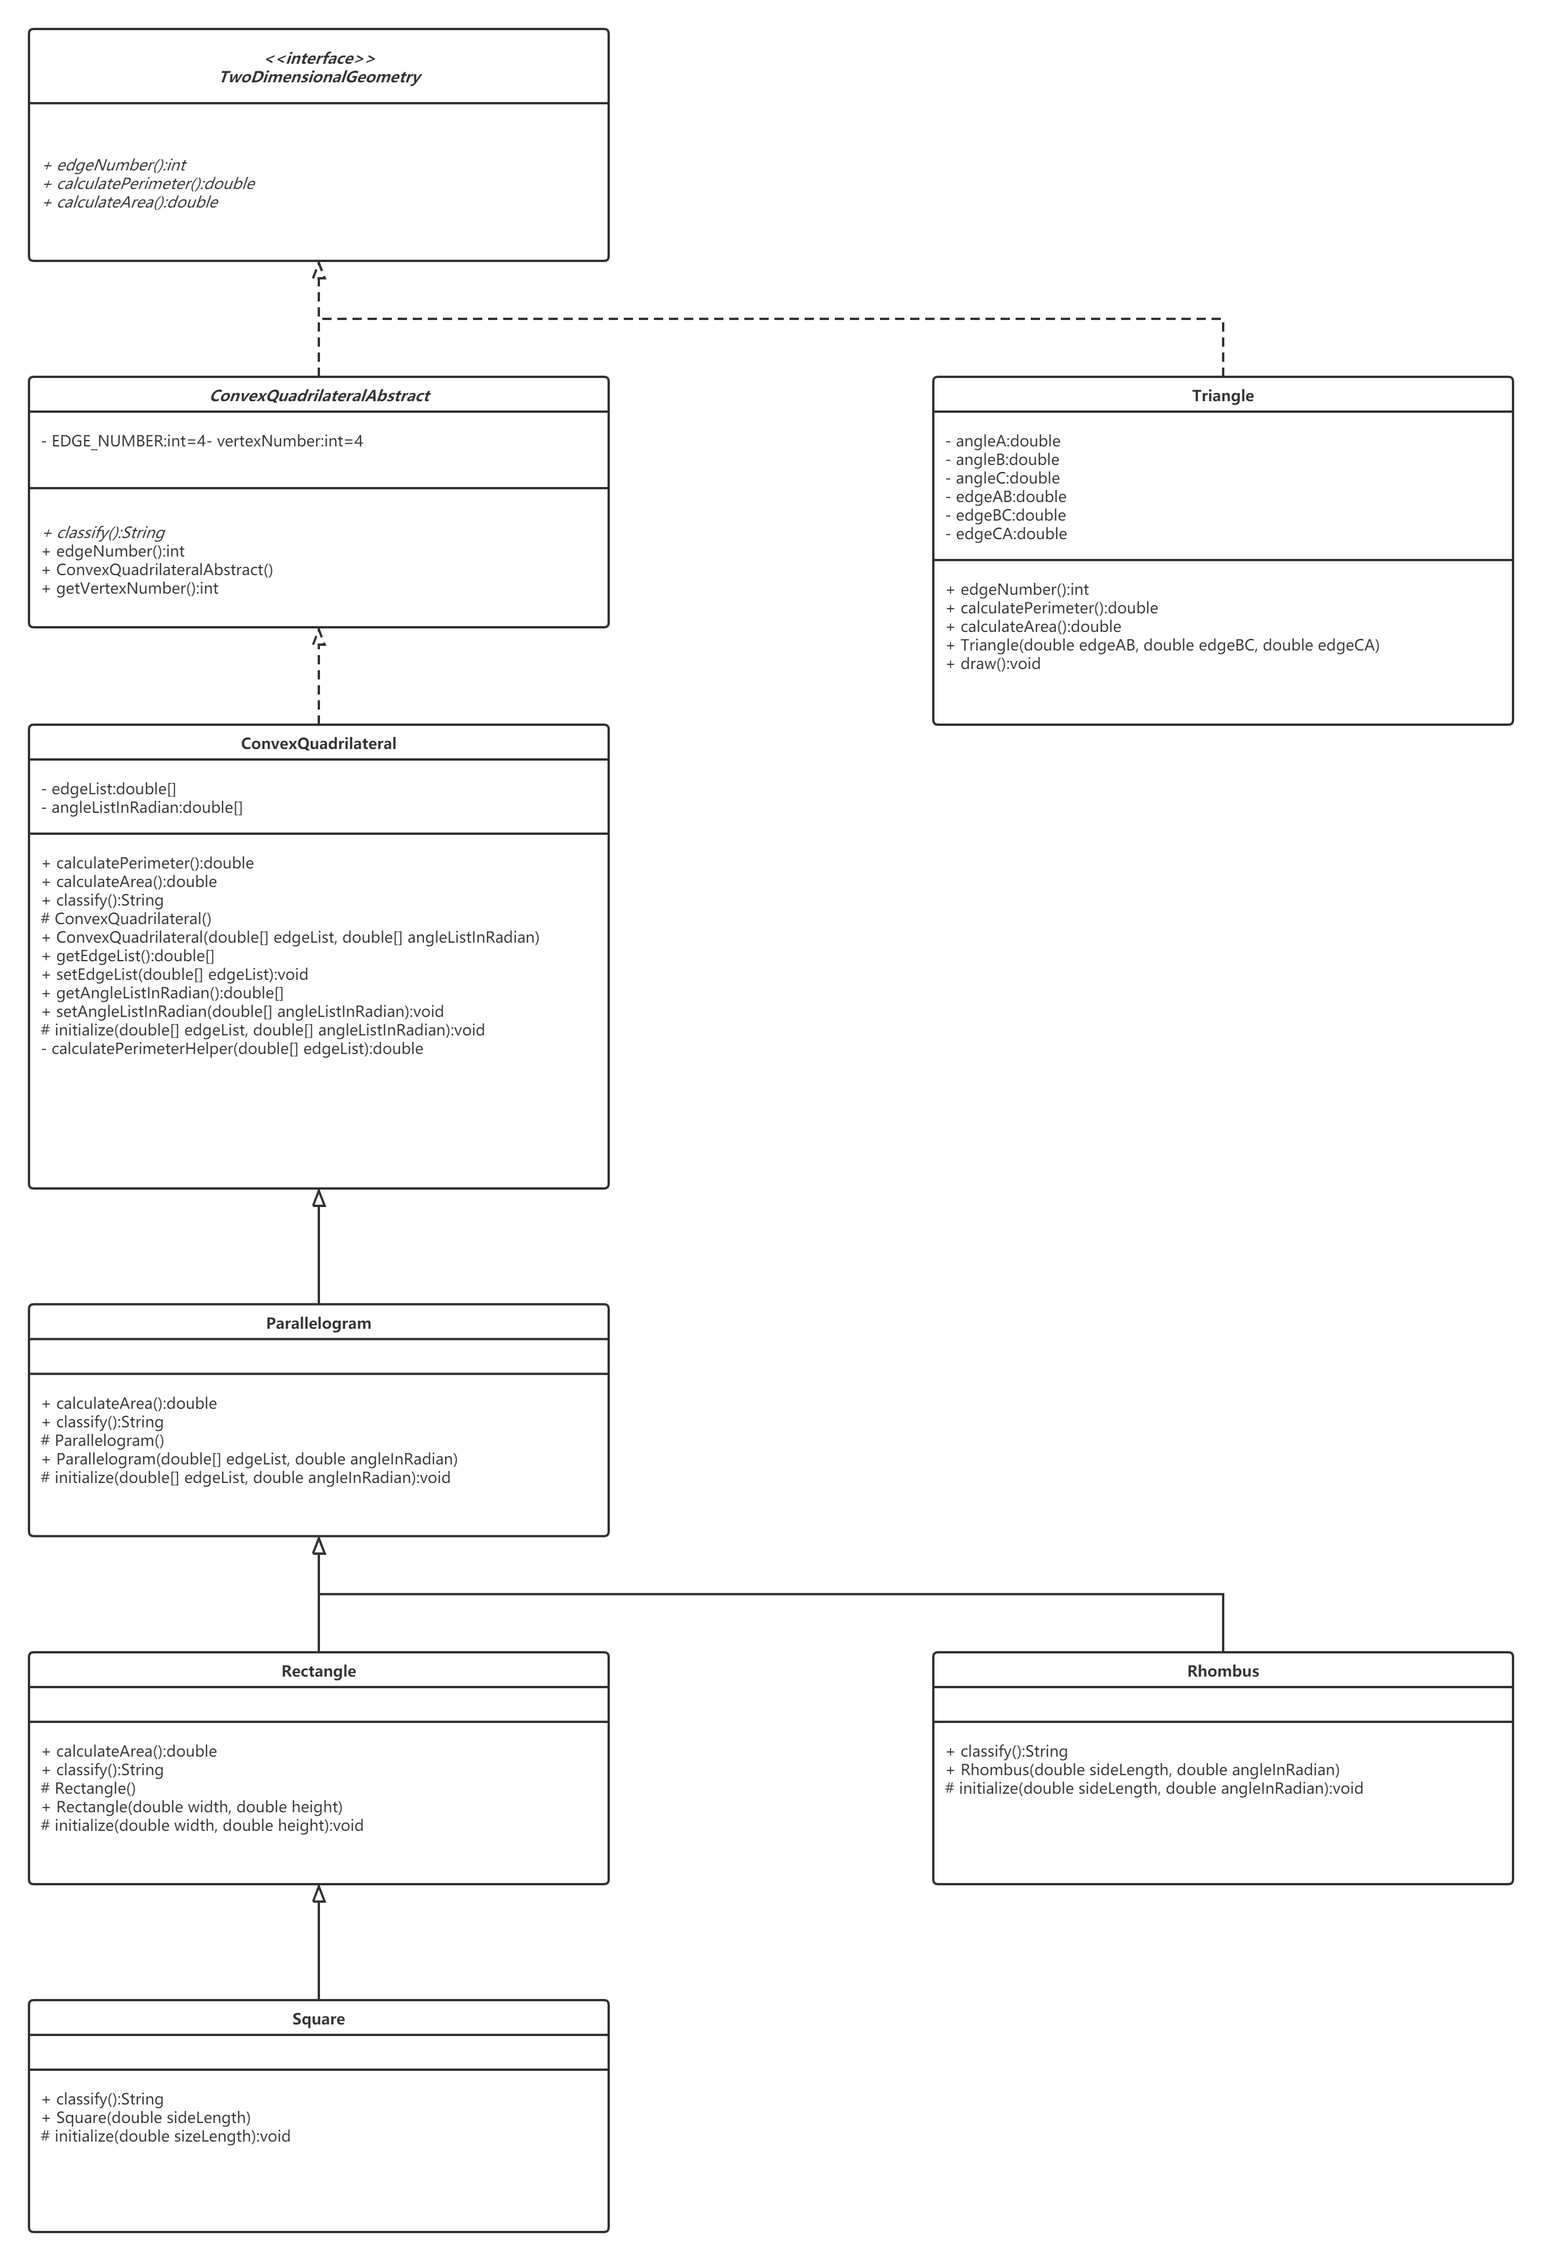
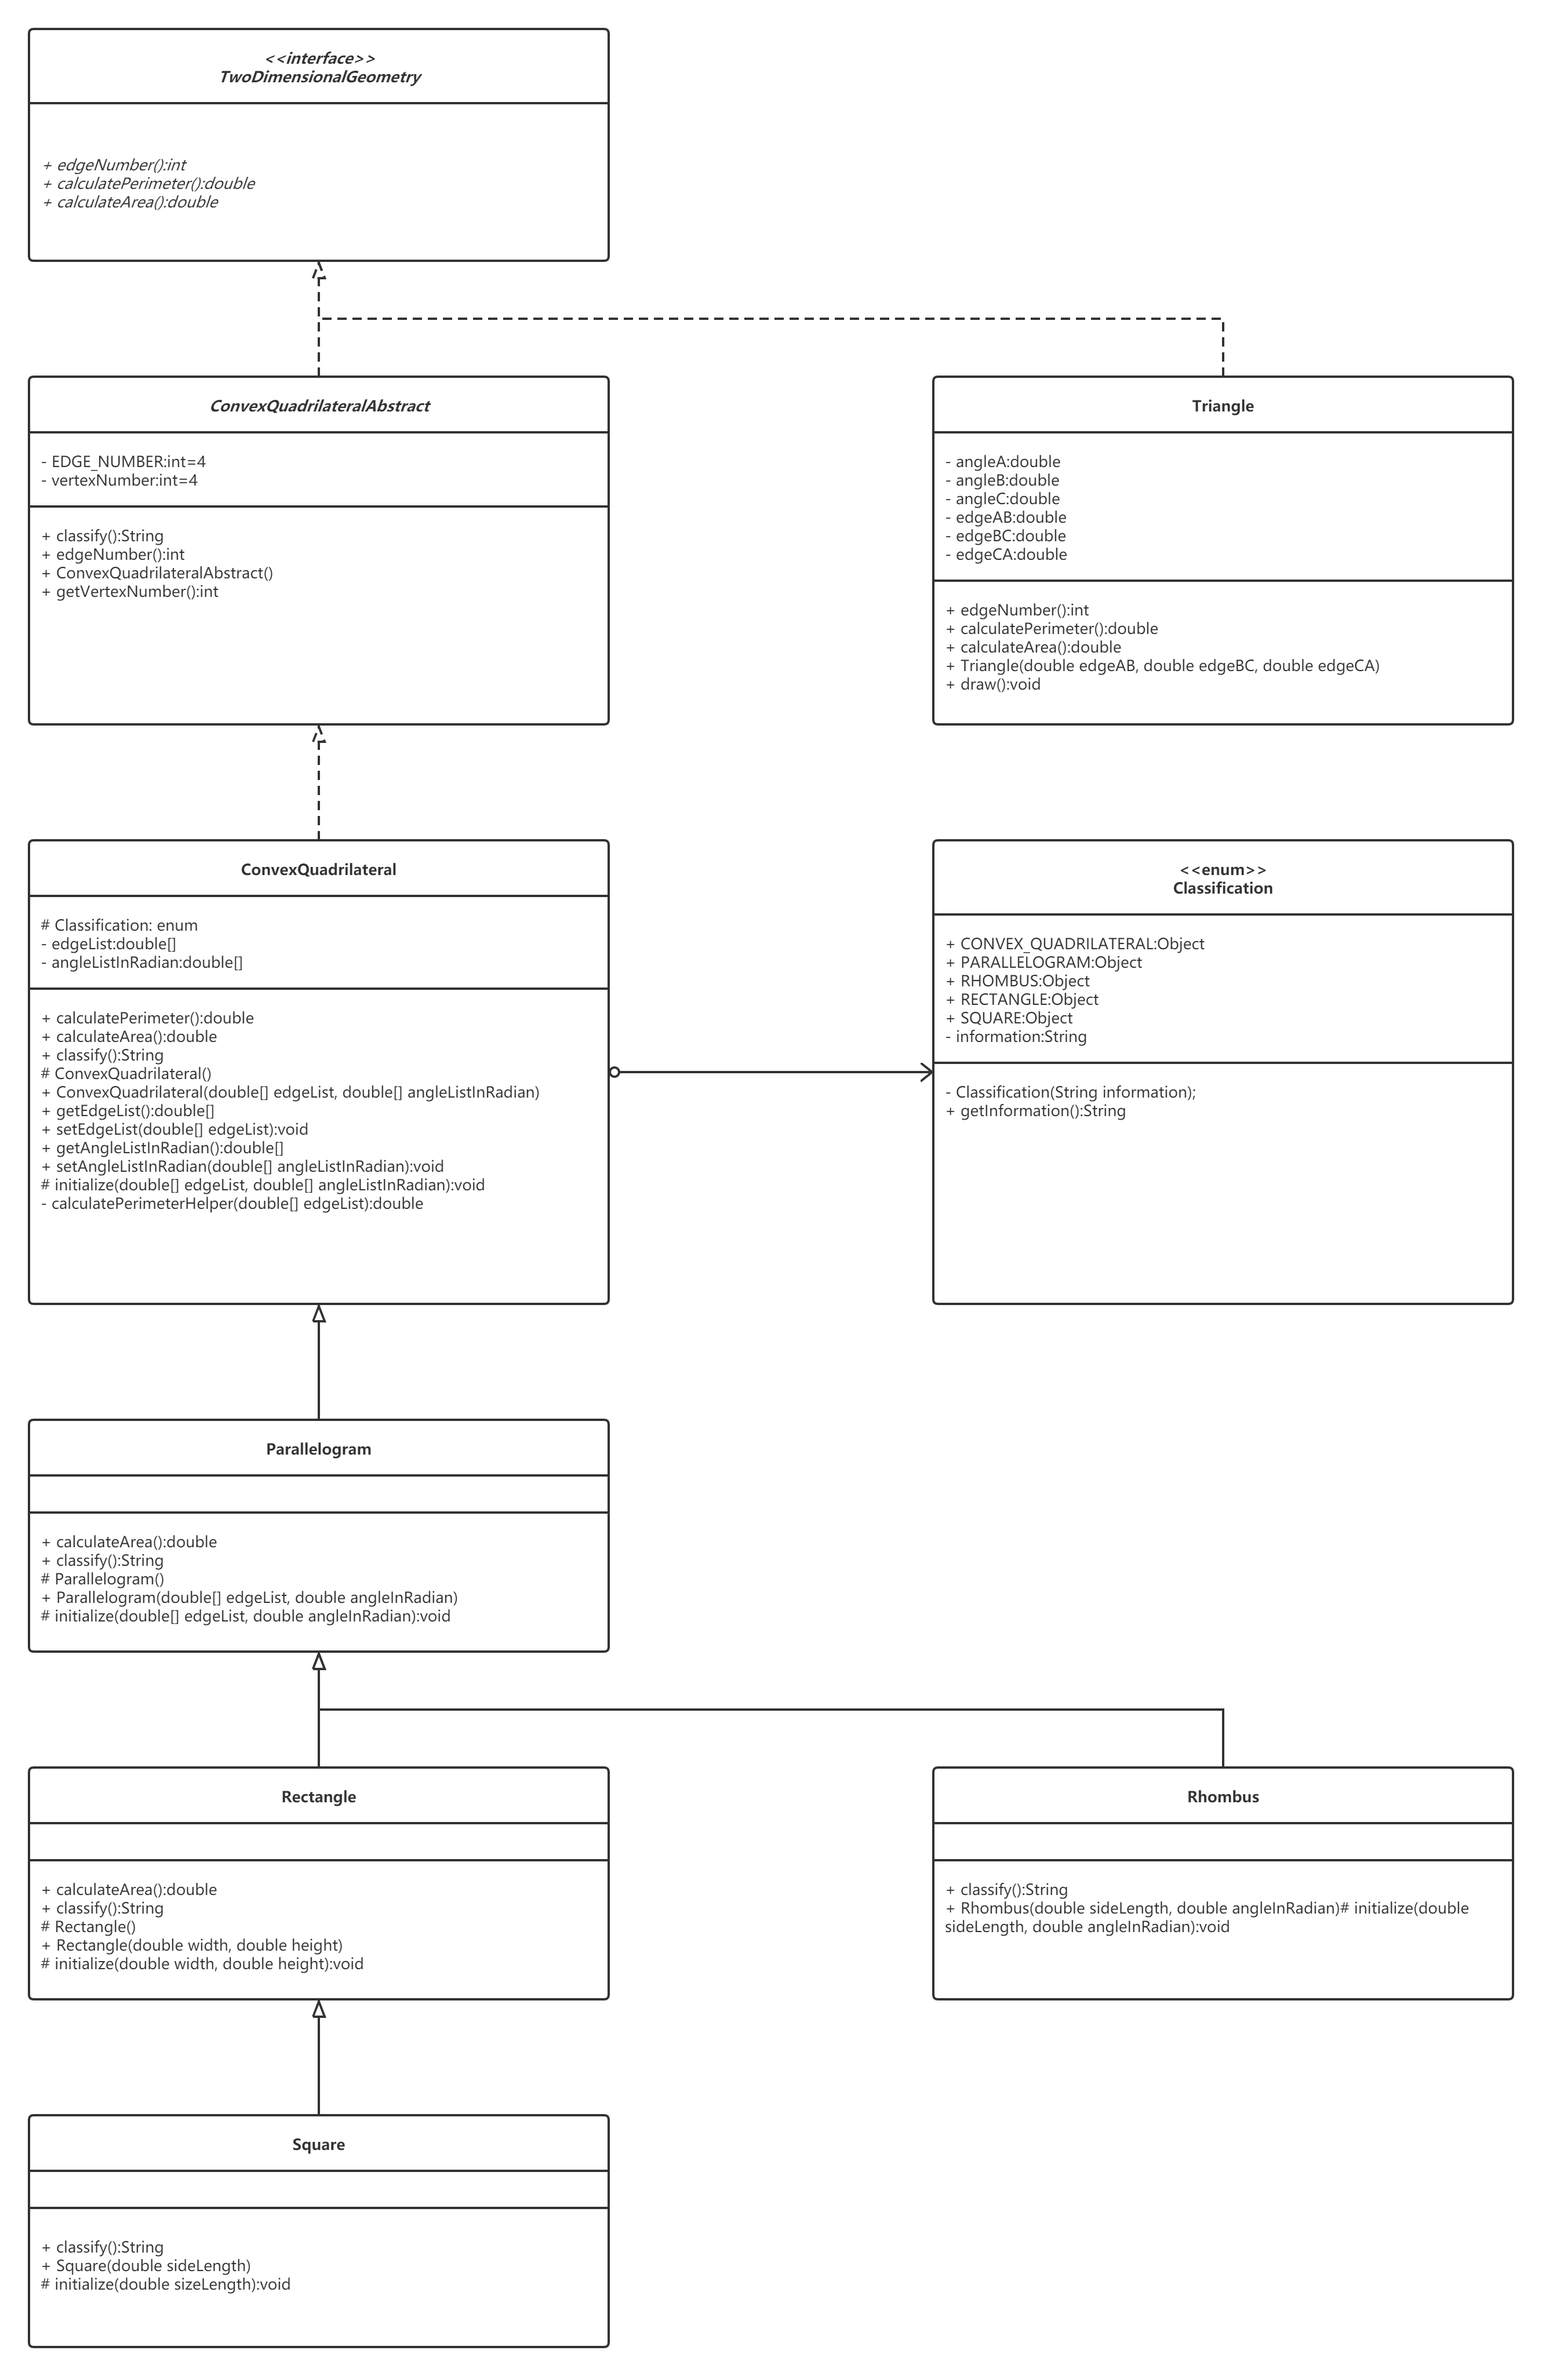
commit

diff --git a/src/geometry/ConvexQuadrilateral.java b/src/geometry/ConvexQuadrilateral.java
@@ -1,6 +1,24 @@
 package geometry;
 
 public class ConvexQuadrilateral extends ConvexQuadrilateralAbstract {
+  static enum Classification {
+    CONVEX_QUADRILATERAL("Convex Quadrilateral"), PARALLELOGRAM("Parallelogram"), RHOMBUS("Rhombus"),
+    RECTANGLE("Rectangle"), SQUARE("Square");
+
+    private String information;
+
+    private Classification(String information) {
+      this.information = information;
+    }
+
+    /**
+     * @return the information
+     */
+    public String getInformation() {
+      return information;
+    }
+  }
+
   // convex quadrilateral image:
   // https://pic2.zhimg.com/80/v2-c887d558f3768949fba44294a3d9b055_720w.png
   double[] edgeList;
@@ -29,7 +47,7 @@ public class ConvexQuadrilateral extends ConvexQuadrilateralAbstract {
 
   @Override
   public String classify() {
-    return "Convex Quadrilateral";
+    return Classification.CONVEX_QUADRILATERAL.getInformation();
   }
 
   ConvexQuadrilateral() {

diff --git a/src/geometry/Rhombus.java b/src/geometry/Rhombus.java
@@ -3,7 +3,7 @@ package geometry;
 public final class Rhombus extends Parallelogram {
   @Override
   public String classify() {
-    return "Rhombus";
+    return Classification.RHOMBUS.getInformation();
   }
 
   public Rhombus(double sideLength, double angleInRadian) {

diff --git a/src/geometry/Square.java b/src/geometry/Square.java
@@ -3,7 +3,7 @@ package geometry;
 public final class Square extends Rectangle {
   @Override
   public String classify() {
-    return "Square";
+    return Classification.SQUARE.getInformation();
   }
 
   public Square(double sideLength) {

diff --git a/src/geometry/Parallelogram.java b/src/geometry/Parallelogram.java
@@ -8,7 +8,7 @@ public class Parallelogram extends ConvexQuadrilateral {
 
   @Override
   public String classify() {
-    return "Parallelogram";
+    return Classification.PARALLELOGRAM.getInformation();
   }
 
   Parallelogram() {

diff --git a/src/geometry/Rectangle.java b/src/geometry/Rectangle.java
@@ -8,7 +8,7 @@ public class Rectangle extends Parallelogram {
 
   @Override
   public String classify() {
-    return "Rectangle";
+    return Classification.RECTANGLE.getInformation();
   }
 
   Rectangle() {

diff --git a/src/geometry/README.md b/src/geometry/README.md
@@ -12,9 +12,9 @@ It is also a sample usage of the following:
   - concrete class
   - enumeration
 - access modifier
-  - private / default / protected / public
-  - default / static
-  - default / final
+  - private / protected / public
+  - static
+  - final
 - UML class diagram
 
 ### UML
